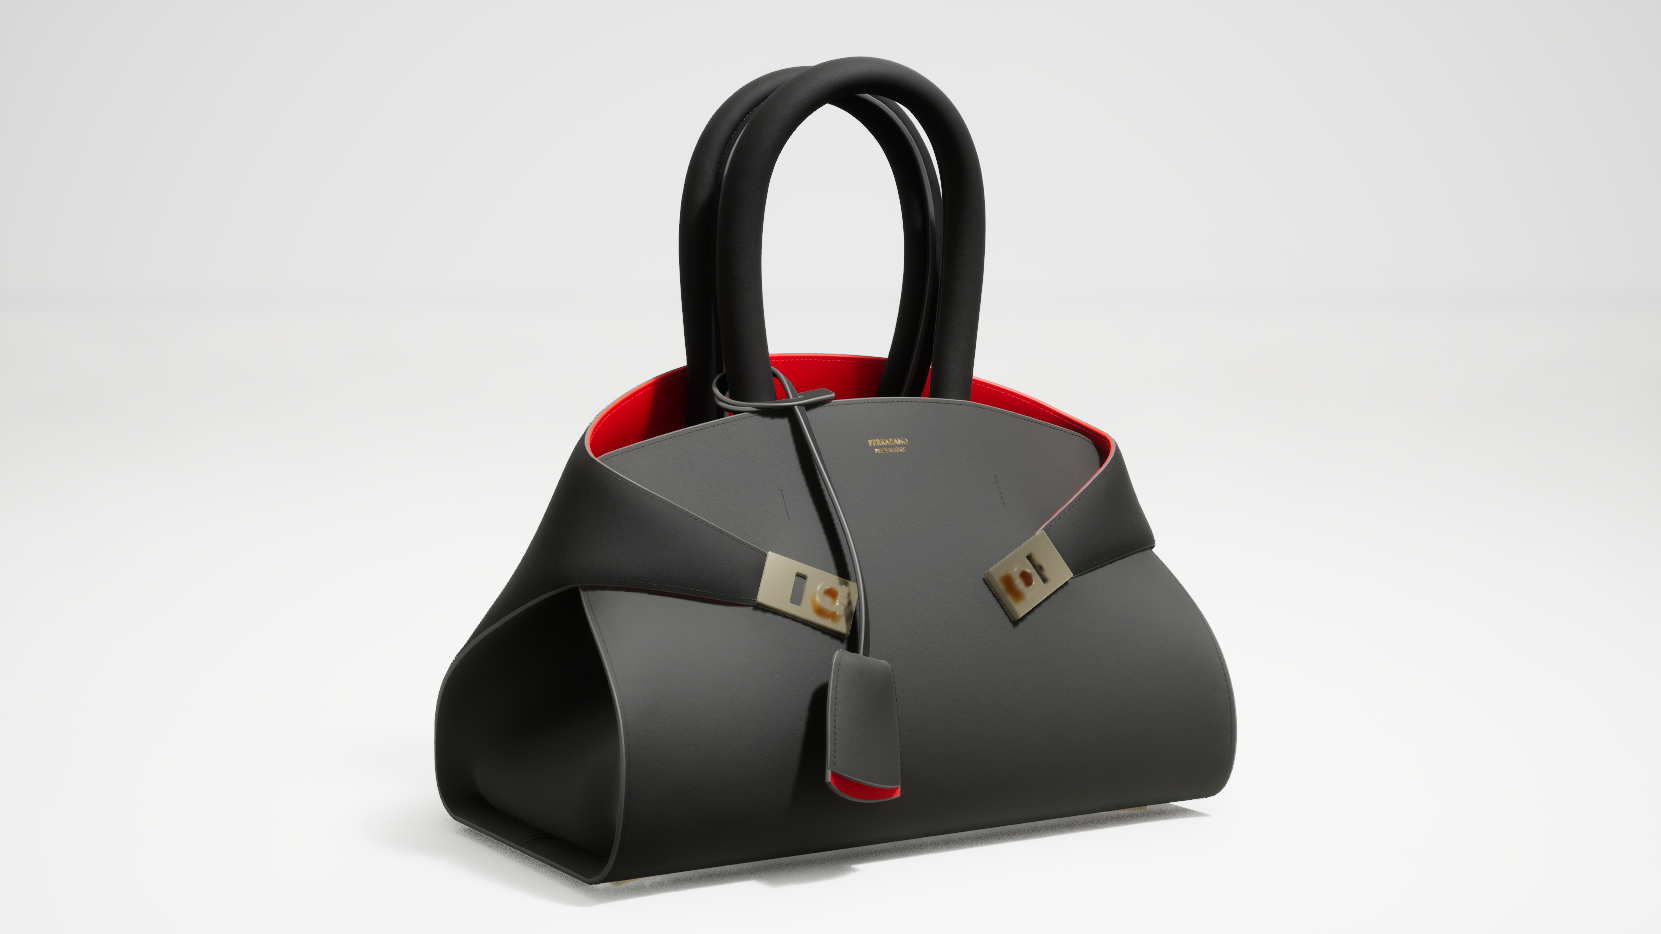
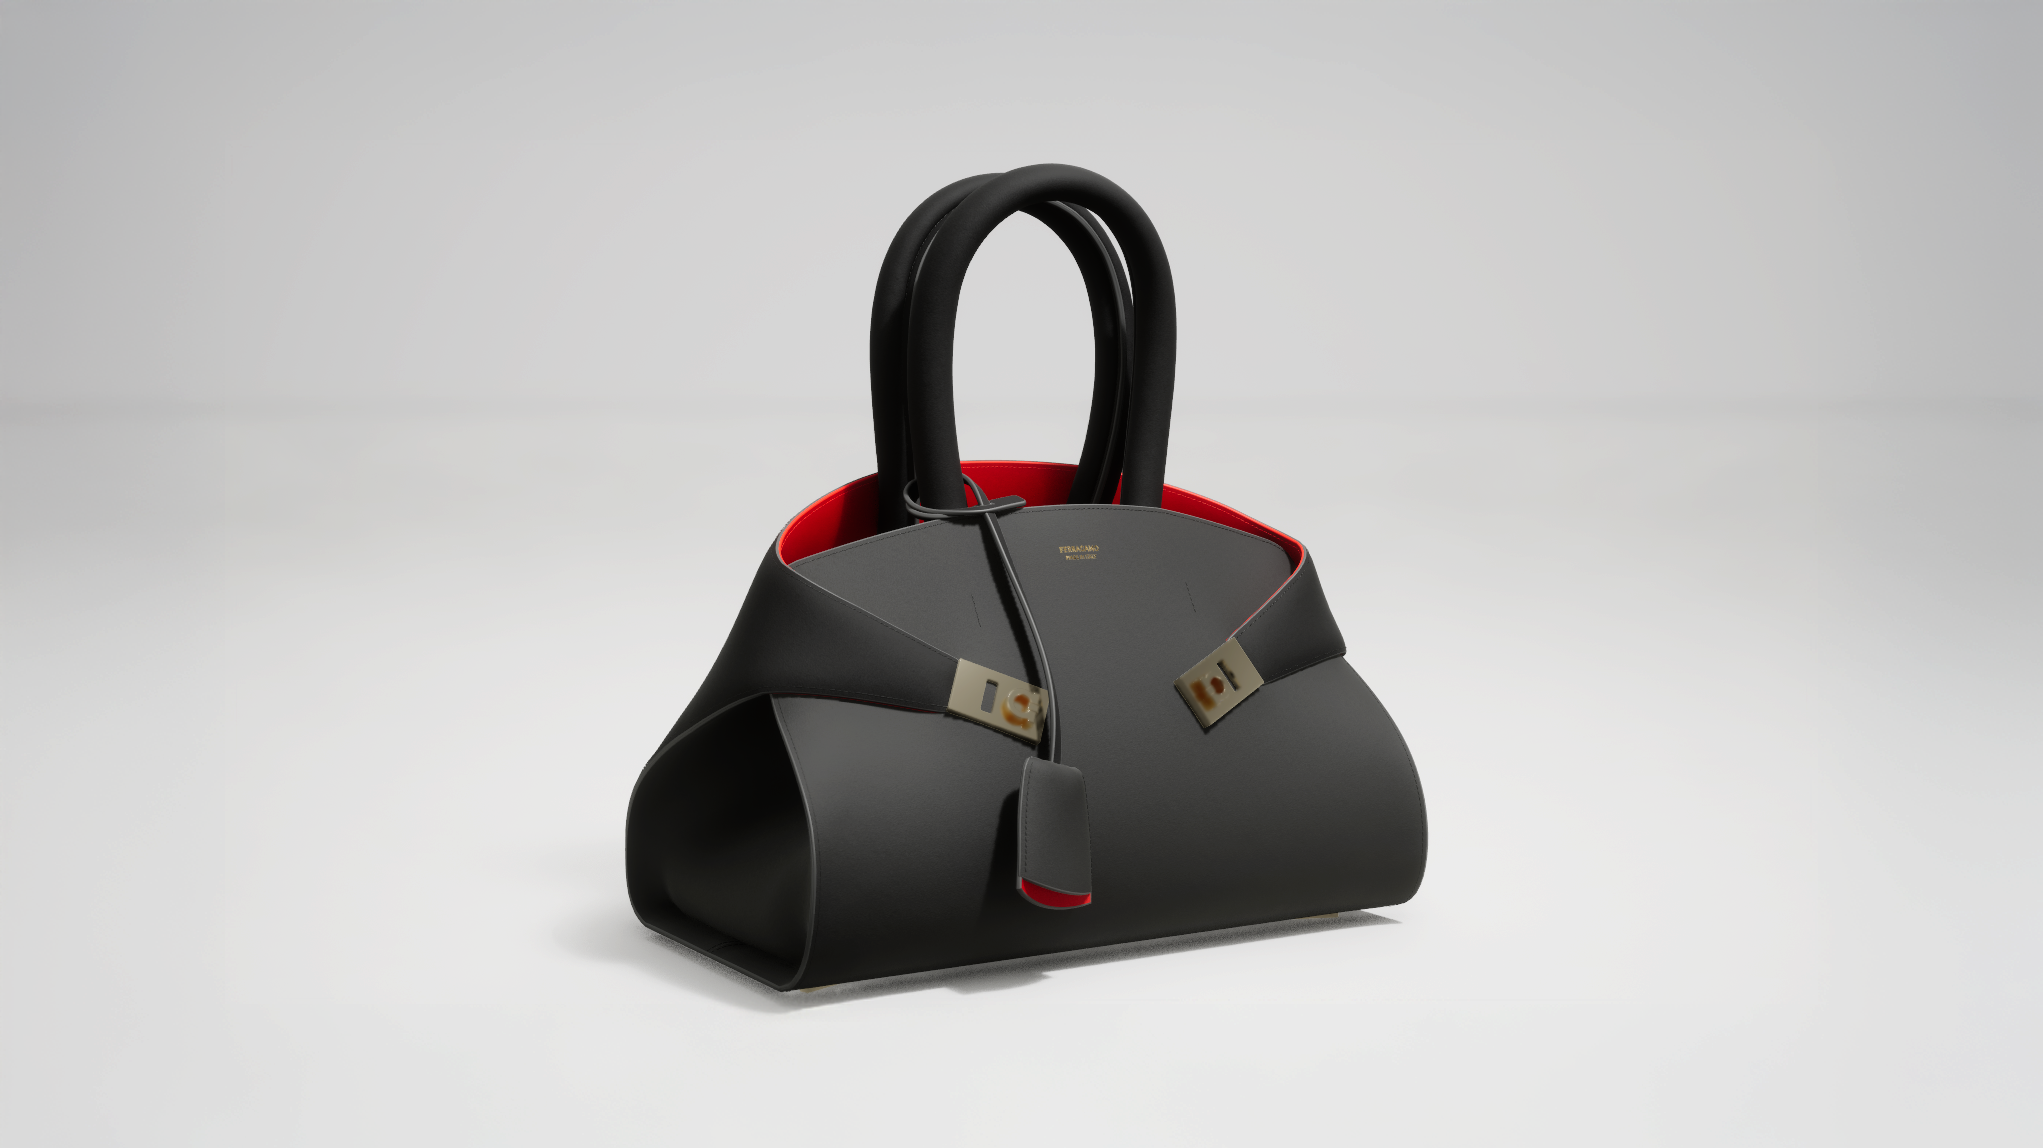
update about page

diff --git a/app/(frontend)/writings/page.tsx b/app/(frontend)/writings/page.tsx
@@ -1,84 +1,14 @@
+import Description from "@/components/description";
+import Title from "@/components/title";
+
 export default function Writing() {
 	return (
 		<div>
-			Lorem ipsum dolor sit amet, consectetur adipiscing elit. Fusce eu est
-			sagittis, elementum quam commodo, interdum purus. Phasellus nec faucibus
-			nisl. Praesent ultricies orci id rhoncus malesuada. Etiam quis elit justo.
-			Sed nec eros quis quam vulputate suscipit quis id ante. Cras ut diam
-			congue mauris egestas viverra. Nullam volutpat dictum finibus. Integer vel
-			aliquam eros. Integer suscipit massa imperdiet odio egestas molestie.
-			Etiam ac ex et neque porttitor laoreet. Duis at consequat augue, mattis
-			ultricies eros. Mauris ut lorem ac eros aliquet aliquam. Mauris at
-			interdum dui, quis tincidunt tortor. Nullam a ligula eget dui sodales
-			ornare semper id leo. Sed urna sapien, ornare id sagittis non, maximus vel
-			neque. Ut feugiat, lacus nec mattis lacinia, velit purus condimentum urna,
-			a placerat neque mauris consequat eros. Integer fermentum diam vel leo
-			bibendum imperdiet. Duis cursus sed lacus a tempus. Donec diam purus,
-			vulputate at dapibus blandit, rhoncus non tellus. Integer ut suscipit
-			diam. Sed tempor metus nibh, eget iaculis libero aliquam quis. Donec
-			convallis tellus turpis, at efficitur ante sollicitudin eget. Etiam
-			aliquam dui massa, tristique elementum magna ullamcorper at. Praesent
-			consequat blandit est ut eleifend. Vestibulum ante ipsum primis in
-			faucibus orci luctus et ultrices posuere cubilia curae; Donec metus massa,
-			egestas eget nisl nec, blandit semper ex. Fusce volutpat quam purus, ac
-			iaculis turpis dictum tincidunt. Donec ante mi, cursus non metus at,
-			feugiat vehicula tellus. Curabitur blandit dignissim ultrices. Aliquam
-			ornare, tortor consectetur facilisis gravida, metus leo vestibulum lectus,
-			vel vulputate orci velit ut metus. Nullam non diam ac neque tincidunt
-			fringilla. Suspendisse quis scelerisque mi. Ut ullamcorper auctor mi. In
-			hac habitasse platea dictumst. Ut ipsum odio, venenatis non varius ac,
-			tempor in sem. Suspendisse semper elementum ex eu pellentesque.
-			Suspendisse pulvinar a odio vel molestie. Etiam congue arcu non velit
-			iaculis consectetur. Suspendisse potenti. Orci varius natoque penatibus et
-			magnis dis parturient montes, nascetur ridiculus mus. Proin lacus ante,
-			cursus maximus viverra nec, gravida ac enim. Maecenas dignissim nunc sed
-			diam accumsan, quis hendrerit mauris dignissim. Nunc eu commodo eros. In
-			tempor rutrum orci, ut pulvinar risus eleifend vitae. In sit amet
-			efficitur lorem, sit amet dictum elit. Suspendisse non risus ut nibh
-			feugiat faucibus eu ac eros. Nunc aliquet lacus mauris, eget congue purus
-			hendrerit id. Integer risus tellus, laoreet quis faucibus eu, sodales
-			ullamcorper arcu. In interdum facilisis odio, vitae varius nibh accumsan
-			sit amet. Pellentesque eget facilisis sapien. Duis at velit non sem
-			bibendum ullamcorper sed a leo. Aenean lobortis pharetra feugiat. Lorem
-			ipsum dolor sit amet, consectetur adipiscing elit. Fusce eu est sagittis,
-			elementum quam commodo, interdum purus. Phasellus nec faucibus nisl.
-			Praesent ultricies orci id rhoncus malesuada. Etiam quis elit justo. Sed
-			nec eros quis quam vulputate suscipit quis id ante. Cras ut diam congue
-			mauris egestas viverra. Nullam volutpat dictum finibus. Integer vel
-			aliquam eros. Integer suscipit massa imperdiet odio egestas molestie.
-			Etiam ac ex et neque porttitor laoreet. Duis at consequat augue, mattis
-			ultricies eros. Mauris ut lorem ac eros aliquet aliquam. Mauris at
-			interdum dui, quis tincidunt tortor. Nullam a ligula eget dui sodales
-			ornare semper id leo. Sed urna sapien, ornare id sagittis non, maximus vel
-			neque. Ut feugiat, lacus nec mattis lacinia, velit purus condimentum urna,
-			a placerat neque mauris consequat eros. Integer fermentum diam vel leo
-			bibendum imperdiet. Duis cursus sed lacus a tempus. Donec diam purus,
-			vulputate at dapibus blandit, rhoncus non tellus. Integer ut suscipit
-			diam. Sed tempor metus nibh, eget iaculis libero aliquam quis. Donec
-			convallis tellus turpis, at efficitur ante sollicitudin eget. Etiam
-			aliquam dui massa, tristique elementum magna ullamcorper at. Praesent
-			consequat blandit est ut eleifend. Vestibulum ante ipsum primis in
-			faucibus orci luctus et ultrices posuere cubilia curae; Donec metus massa,
-			egestas eget nisl nec, blandit semper ex. Fusce volutpat quam purus, ac
-			iaculis turpis dictum tincidunt. Donec ante mi, cursus non metus at,
-			feugiat vehicula tellus. Curabitur blandit dignissim ultrices. Aliquam
-			ornare, tortor consectetur facilisis gravida, metus leo vestibulum lectus,
-			vel vulputate orci velit ut metus. Nullam non diam ac neque tincidunt
-			fringilla. Suspendisse quis scelerisque mi. Ut ullamcorper auctor mi. In
-			hac habitasse platea dictumst. Ut ipsum odio, venenatis non varius ac,
-			tempor in sem. Suspendisse semper elementum ex eu pellentesque.
-			Suspendisse pulvinar a odio vel molestie. Etiam congue arcu non velit
-			iaculis consectetur. Suspendisse potenti. Orci varius natoque penatibus et
-			magnis dis parturient montes, nascetur ridiculus mus. Proin lacus ante,
-			cursus maximus viverra nec, gravida ac enim. Maecenas dignissim nunc sed
-			diam accumsan, quis hendrerit mauris dignissim. Nunc eu commodo eros. In
-			tempor rutrum orci, ut pulvinar risus eleifend vitae. In sit amet
-			efficitur lorem, sit amet dictum elit. Suspendisse non risus ut nibh
-			feugiat faucibus eu ac eros. Nunc aliquet lacus mauris, eget congue purus
-			hendrerit id. Integer risus tellus, laoreet quis faucibus eu, sodales
-			ullamcorper arcu. In interdum facilisis odio, vitae varius nibh accumsan
-			sit amet. Pellentesque eget facilisis sapien. Duis at velit non sem
-			bibendum ullamcorper sed a leo. Aenean lobortis pharetra feugiat.
+			<Title>Writings</Title>
+			<Description>
+				I run a blog that’s a mixed bag of experiments and random thoughts. Some
+				of it is actually treated as my journal.
+			</Description>
 		</div>
 	);
 }

diff --git a/app/(frontend)/about/page.tsx b/app/(frontend)/about/page.tsx
@@ -19,7 +19,7 @@ export default function AboutPage() {
 				{/* cover image */}
 				<div className="pt-4">
 					<Image
-						className="rounded-2xl"
+						className="rounded-2xl grayscale filter"
 						src="/static/cover-image-about.jpg"
 						alt="Cover"
 						width={1000}
@@ -31,13 +31,13 @@ export default function AboutPage() {
 			{/* Journey Timeline */}
 			<div className="space-y-16">
 				<JourneyItem
-					title="Middle School Curiosity"
+					title="How it all started"
 					date="May, 2010"
 					description="I’ve always loved videogames, and one day I asked myself: “How do they make these?” That question started everything. I began experimenting with 3D modeling without really knowing what I was doing, but I was fascinated. Soon after, I discovered game engines like Unity and CryEngine. That’s when I realized programming was the key to creating real interactive experiences."
 				/>
 
 				<JourneyItem
-					title="High School in Graphic Design"
+					title="High School"
 					date="Nov, 2011"
 					description={
 						<>
@@ -66,7 +66,7 @@ export default function AboutPage() {
 				/>
 
 				<JourneyItem
-					title="NABA Milano (Creative Technologies)"
+					title="NABA Milano"
 					date="Jun, 2017"
 					description="With the support of my English teacher, I joined the Creative Technologies course at NABA in Milan. There, I explored storytelling, game development, and even filmmaking. For my thesis, my team researched game engines in cinema, focusing on virtual production with Unreal Engine and LED walls. This project gave me the chance to collaborate on short films with NABA and experiment with cutting-edge technology."
 					images={[
@@ -86,9 +86,24 @@ export default function AboutPage() {
 				/>
 
 				<JourneyItem
-					title="First Developer Role"
+					title="Professional Start"
 					date="Feb, 2021"
-					description="I started my career as a Software Developer, working on a Unity-based mobile app that built personalized avatars for size suggestion and virtual try-on. I contributed to both UI and development, gaining my first real experience shipping software."
+					description={
+						<>
+							I began my career as a Software Developer at{" "}
+							<Link
+								className="text-pink-500"
+								href="https://www.wewear.tech/"
+								target="_blank"
+							>
+								WeWear
+							</Link>
+							, where I worked on a Unity-based mobile app that created
+							personalized avatars for size suggestion and virtual try-on. I
+							contributed to both UI and development, gaining my first hands-on
+							experience shipping software at scale.
+						</>
+					}
 					images={[
 						{
 							src: "/static/wavtr.jpg?v=2",
@@ -106,12 +121,29 @@ export default function AboutPage() {
 				/>
 
 				<JourneyItem
-					title="3D Configurators"
+					title="The real fun starts"
 					date="Oct, 2022"
-					description="Our focus shifted to building high-quality configurators. For the Modesto Bertotto project, we developed a scalable 3D configurator streamed from the cloud, with a React webapp as the frontend. This was my entry point into the JavaScript and full-stack world. From there, I worked on multiple web apps, ecommerce integrations, and configurators — sharpening my skills across the stack."
+					description={
+						<>
+							As our team’s focus evolved, we shifted toward building
+							high-quality 3D configurators. One of the key milestones was the{" "}
+							<Link
+								className="text-pink-500"
+								href="https://www.modestobertotto.com/pages/configuratore-3d"
+								target="_blank"
+							>
+								Modesto Bertotto
+							</Link>{" "}
+							project, where we developed a scalable configurator streamed from
+							the cloud with a React webapp as the frontend. This marked my
+							entry into the JavaScript and full-stack world. Since then, I’ve
+							worked on several configurators and ecommerce integrations,
+							strengthening my expertise in both web and 3D development.
+						</>
+					}
 					images={[
 						{
-							src: "/static/mb.png",
+							src: "/static/mb.png?v=3",
 							alt: "Modesto Bertotto",
 						},
 						{
@@ -119,12 +151,8 @@ export default function AboutPage() {
 							alt: "HRX",
 						},
 						{
-							src: "/static/bag.png",
+							src: "/static/bag.png?v=3",
 							alt: "Bag",
-						},
-						{
-							src: "/static/shirt.png",
-							alt: "Jacket",
 						},
 					]}
 				/>
@@ -132,7 +160,24 @@ export default function AboutPage() {
 				<JourneyItem
 					title="Today"
 					date="Aug, 2025"
-					description="I now work at WeWear as a software developer, building a flexible 3D configurator platform that manages assets, materials, and product variations. It brings together everything I’ve learned: design, 3D, web, and software engineering. My passion for creating interactive, user-centered digital experiences continues to drive me, whether it’s through game engines, web apps, or entirely new technologies."
+					description={
+						<>
+							I now work at{" "}
+							<Link
+								className="text-pink-500"
+								href="https://www.wewear.tech/"
+								target="_blank"
+							>
+								WeWear
+							</Link>{" "}
+							as a software developer, building a flexible 3D configurator
+							platform that manages assets, materials, and product variations.
+							It brings together everything I’ve learned: design, 3D, web, and
+							software engineering. My passion for creating interactive,
+							user-centered digital experiences continues to drive me, whether
+							it’s through game engines, web apps, or entirely new technologies.
+						</>
+					}
 				/>
 			</div>
 

diff --git a/app/(frontend)/projects/page.tsx b/app/(frontend)/projects/page.tsx
@@ -1,5 +1,5 @@
 import Description from "@/components/description";
-import PageTitle from "@/components/title";
+import Title from "@/components/title";
 import { ProjectList } from "./project-list";
 
 export const metadata = {
@@ -10,7 +10,7 @@ export const metadata = {
 export default function Projects() {
 	return (
 		<div>
-			<PageTitle>Projects</PageTitle>
+			<Title>Projects</Title>
 			<Description>
 				Here are a few projects that showcase my work and creativity. While
 				there are many more, I’ve curated a selection to keep this portfolio

diff --git a/app/(frontend)/components/writings.tsx b/app/(frontend)/components/writings.tsx
@@ -23,7 +23,7 @@ const getWritings = async () => {
 
 function WritingCard({ writing }: { writing: Writing }) {
 	return (
-		<Link href={writing.slug}>
+		<Link href={`/writings/${writing.slug}`} target="_blank">
 			<Card key={writing.id} className="card-hover">
 				<CardHeader className="items-start">
 					<CardTitle className="mb-2">{writing.title}</CardTitle>
